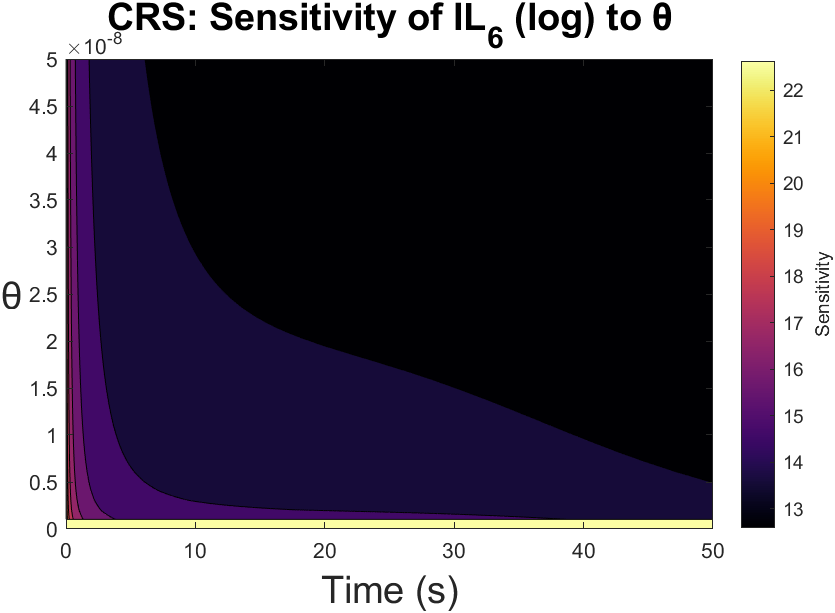
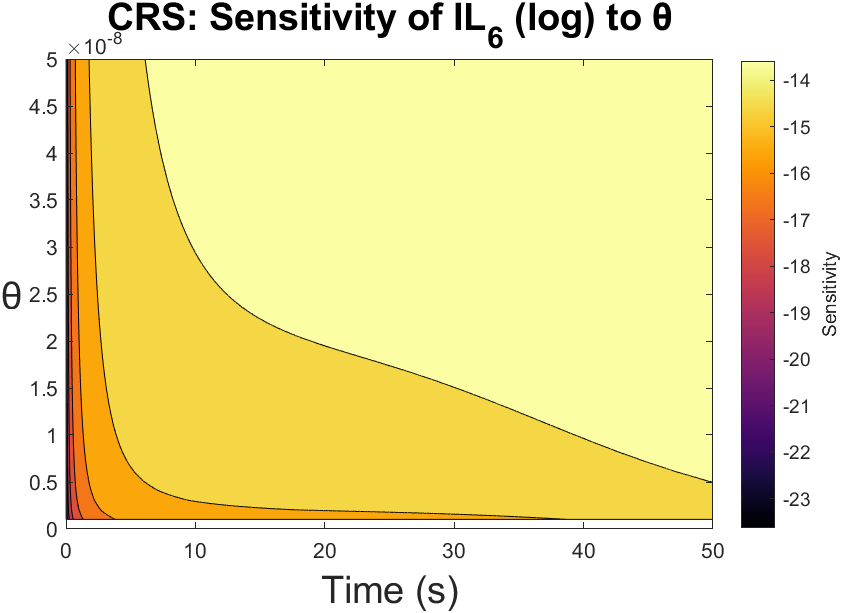
txt output file, fixed duplicated outpur file, deleted contour lines as a visualization options

diff --git a/v.4/PlotResults.m b/v.4/PlotResults.m
@@ -1,12 +1,50 @@
-function plotResults(results_matrix, tspan, CARTVect, pI, state_index, modelname, param_names, state_names, solver, rel_tol, abs_tol, visualization_choice)
+function plotResults(results_matrix, ode_function, param_values, x0, tspan, CARTVect, pI, state_index, modelname, param_names, state_names, solver, rel_tol, abs_tol, visualization_choice)
+
+    switch visualization_choice
+        case 1
+            name_visual = 'gray';
+        case 2
+            name_visual = 'inferno';
+        %case 3
+            %name_visual = 'contour';
+    end
 
     % === OUTPUT FOLDER ===
     solver_name = func2str(solver);
     output_folder = fullfile(pwd, ...
-        ['Sensitivity_Images_' modelname '_' solver_name '_' num2str(rel_tol) '_' num2str(abs_tol)]);
+        ['Sensitivity_Images_' modelname '_' solver_name '_' num2str(rel_tol) '_' num2str(abs_tol) '_' name_visual]);
     if ~exist(output_folder, 'dir')
         mkdir(output_folder);
     end
+    
+    % === GENERATE INFO FILE TXT ===
+
+    info_path = fullfile(output_folder, 'run_options.txt');
+    fid = fopen(info_path, 'w');
+
+    fprintf(fid, '=== RUN CONFIGURATION ===\n\n');
+
+    fprintf(fid, 'Model: %s\n', modelname);
+    fprintf(fid, 'ODE function: %s.m\n', func2str(ode_function));
+    fprintf(fid, 'Solver: %s\n', func2str(solver));
+    fprintf(fid, 'Relative Tolerance: %g\n', rel_tol);
+    fprintf(fid, 'Absolute Tolerance: %g\n', abs_tol);
+    fprintf(fid, 'Visualization: %s (option %d)\n', name_visual, visualization_choice);
+    fprintf(fid, 'State analyzed: %s (index %d)\n', state_names{state_index}, state_index);
+    fprintf(fid, 'Simulation step size: %g\n', tspan(2) - tspan(1));
+    fprintf(fid, 'Simulation end time: %g\n', tspan(end));
+    fprintf(fid, 'Sensitivity iterations: %d\n\n', size(results_matrix, 1));
+    fprintf(fid, '=== MODEL PARAMETERS ===\n');
+    for k = 1:length(param_names)
+        fprintf(fid, '%s = %.5g\n', param_names{k}, param_values(k));
+    end
+    fprintf(fid, '\n');
+    fprintf(fid, '=== MODEL STATES ===\n');
+    for k = 1:length(state_names)
+        fprintf(fid, '%s = %.5g\n', state_names{k}, real(x0(k)));
+    end
+    
+    fclose(fid);
     
     % === PLOT FIGURES (NORMAL AND LOG SCALE) ===
     matrix_to_plot = abs(results_matrix);
@@ -16,7 +54,7 @@ function plotResults(results_matrix, tspan, CARTVect, pI, state_index, modelname
     switch visualization_choice
         case 1
             contourf(tspan, CARTVect, matrix_to_plot, 10, 'LineColor', 'k');
-            colormap(flipud(gray));
+            colormap(gray);
             cb = colorbar;
             cb.Label.String = 'Sensitivity';
         case 2
@@ -25,8 +63,8 @@ function plotResults(results_matrix, tspan, CARTVect, pI, state_index, modelname
             colormap(inferno);
             cb = colorbar;
             cb.Label.String = 'Sensitivity';
-        case 3
-            contour(tspan, CARTVect, matrix_to_plot, 10, 'LineColor', 'k');
+        %case 3
+            %contour(tspan, CARTVect, matrix_to_plot, 10, 'LineColor', 'k');
     end
     xlabel('Time (s)', 'FontSize', 18);
     ylabel(param_names{pI}, 'FontSize', 18, 'Rotation', 0);
@@ -44,18 +82,18 @@ function plotResults(results_matrix, tspan, CARTVect, pI, state_index, modelname
     figura_log = figure('Visible', 'off', 'Position', [100, 100, 600, 400]);
     switch visualization_choice
         case 1
-            contourf(tspan, CARTVect, results_matrix_log, 10, 'LineColor', 'k');
+            contourf(tspan, CARTVect, real(results_matrix_log), 10, 'LineColor', 'k');
             colormap(gray);
             cb = colorbar;
             cb.Label.String = 'Sensitivity';
         case 2
             inferno = csvread('inferno_colormap.csv');
-            contourf(tspan, CARTVect, results_matrix_log, 10, 'LineColor', 'k');
+            contourf(tspan, CARTVect, real(results_matrix_log), 10, 'LineColor', 'k');
             colormap(inferno);
             cb = colorbar;
             cb.Label.String = 'Sensitivity';
-        case 3
-            contour(tspan, CARTVect, results_matrix_log, 10, 'LineColor', 'k');
+        %case 3
+            %contour(tspan, CARTVect, real(results_matrix_log), 10, 'LineColor', 'k');
     end
     xlabel('Time (s)', 'FontSize', 18);
     ylabel(param_names{pI}, 'FontSize', 18, 'Rotation', 0);

diff --git a/v.4/src/vAsensitivityCRS.m b/v.4/src/vAsensitivityCRS.m
@@ -1,10 +1,4 @@
-% === OUTPUT FOLDER ===
-solver_name = func2str(solver);
-output_folder = fullfile(pwd, ...
-    ['Sensitivity_Images_' modelname '_' solver_name '_' num2str(rel_tol) '_' num2str(abs_tol)]);
-if ~exist(output_folder, 'dir')
-    mkdir(output_folder);
-end
+% === SENSITIVITY CODE ===
 
 if isempty(gcp('nocreate'))
     parpool;
@@ -14,7 +8,7 @@ param_values_original = param_values;
 x0_real = real(x0);
 
 % === LOOP OF PARAMETERS TO ANALYZE ===
-for pI = 5:10
+for pI = 1:3
     tic
     rango_max_param = 5 * param_values_original(pI);
     CARTVect = linspace(0, rango_max_param, t_end);
@@ -64,7 +58,7 @@ for pI = 5:10
     % close(figura_log);
     % 
     % disp(['Generated figures for parameter ' num2str(pI) ' of ' num2str(length(param_values))]);
-    PlotResults(results_matrix, tspan, CARTVect, pI, state_index, modelname, param_names, state_names, solver, rel_tol, abs_tol, visualization_choice);
+    PlotResults(results_matrix, ode_function, param_values, x0, tspan, CARTVect, pI, state_index, modelname, param_names, state_names, solver, rel_tol, abs_tol, visualization_choice);
     disp(['Generated figures for parameter ' num2str(pI) ' of ' num2str(length(param_values))]);
     toc
 end
